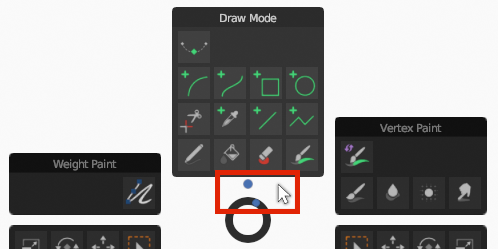
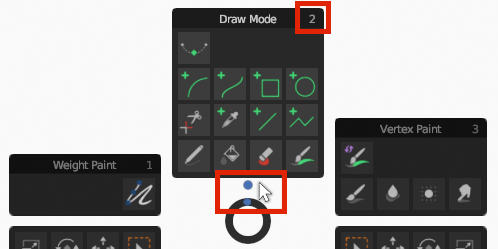
Added: hotkeys 1...6 for mode selection
Fixed: tool wheel could be partially hidden when near the toolbar or n-panel.
Updated: images and How to use.

diff --git a/tool_wheel_draw.py b/tool_wheel_draw.py
@@ -35,7 +35,7 @@ class ModeBox():
     BUTTONS_PER_ROW = 4
     TITLE_HEIGHT = 18
     
-    def __init__(self, mode, box_index, tool_count):
+    def __init__(self, mode, box_index, tool_count, hotkey):
         self.x = 0
         self.y = 0
         self.row_count = math.ceil(tool_count / self.BUTTONS_PER_ROW)
@@ -46,6 +46,7 @@ class ModeBox():
         self.upwards = box_index in {0, 1, 2}
         self.mode = mode
         self.index = box_index
+        self.hotkey = str(hotkey)
         self.tool_buttons = []
         self.title_x = 0
         self.title_y = 0
@@ -96,6 +97,10 @@ class ToolWheel():
     def prepare(self, event, area, context):
         box: ModeBox
         
+        # Init
+        self.active_mode = ''
+        self.active_tool = -1
+        
         # Store area and wheel center
         self.area = area
         self.center_x = event.mouse_region_x
@@ -111,9 +116,9 @@ class ToolWheel():
         
         # Create draw boxes for active modes
         self.boxes = []
-        for mode, box_index in td.active_modes:
+        for mode, box_index, hotkey in td.active_modes:
             tool_count = len(td.tools_per_mode[mode]['active_tools'])
-            box = ModeBox(mode, box_index, tool_count)
+            box = ModeBox(mode, box_index, tool_count, hotkey)
             self.boxes.append(box)
         
         # No active modes (unlikely, but we have to check)
@@ -163,16 +168,25 @@ class ToolWheel():
             max_x = max(max_x, box.x + box.w)
             max_y = max(max_y, box.y)
         
+        # Get width of toolbar and n-panel
+        left_padding = 3
+        right_padding = 3
+        for region in area.regions:
+            if region.alignment == 'LEFT' and region.width > left_padding:
+                left_padding = region.width
+            if region.alignment == 'RIGHT' and region.width > right_padding:
+                right_padding = region.width
+        
         # Make sure bounding box is within area bounds
         dx = 0
         dy = 0
-        if min_x < 2:
-            dx = 2 - min_x
+        if min_x < left_padding:
+            dx = left_padding - min_x
             max_x += dx
-        if max_x > area.width - 2:
-            dx = area.width - 2 - max_x
-        if min_y < 2:
-            dy = 2 - min_y
+        if max_x > area.width - right_padding:
+            dx = area.width - right_padding - max_x
+        if min_y < 3:
+            dy = 3 - min_y
             max_y += dy
         if max_y > area.height - 54:
             dy = area.height - 54 - max_y
@@ -237,11 +251,10 @@ class ToolWheel():
         hint_color[3] = 0.98
         self.box_color = self.get_adjusted_color(box_color, -0.05)
         self.tool_bg_color = self.get_adjusted_color(self.box_color, 0.05)
-        self.box_color_selected = self.get_adjusted_color(box_color, -0.02)
-        self.tool_bg_color_selected = self.get_adjusted_color(box_color, 0.1)
+        self.box_color_selected = self.get_adjusted_color(box_color, -0.12)
+        self.tool_bg_color_selected = self.get_adjusted_color(box_color, 0.08)
         self.text_color = pie_colors.text
-        self.highlight_color_soft = list(pie_colors.inner_sel)
-        self.highlight_color_soft[3] = 0.3
+        self.highlight_color = self.get_adjusted_color(box_color, 0.2)
         
         # Init shaders
         self.shader_icon_bg = gpu.shader.from_builtin('2D_UNIFORM_COLOR')
@@ -350,7 +363,7 @@ class ToolWheel():
             draw_texture_2d(box.texture, (box.x, box.y - box.h), box.w, box.h)
             
             # Lighten box when selected
-            box_is_selected = significant_angle and box.mode == self.active_mode
+            box_is_selected = box.mode == self.active_mode
             if box_is_selected:
                 gpu.state.blend_set('ADDITIVE')
                 verts = ((box.x, box.y), (box.x + box.w, box.y), (box.x, box.y - box.h), (box.x + box.w, box.y - box.h))
@@ -374,7 +387,7 @@ class ToolWheel():
                 gpu.matrix.push()
                 gpu.matrix.translate((button.x + button.BUTTON_IMG_PADDING, button.y - button.BUTTON_IMG_PADDING))
                 if is_active:
-                    color = self.highlight_color_soft
+                    color = self.highlight_color
                 elif box_is_selected:
                     color = self.tool_bg_color_selected
                 else:
@@ -399,7 +412,7 @@ class ToolWheel():
             draw_texture_2d(td.textures['active_dot'], (dx, dy), 8, 8)
         
         # Draw dot on active box
-        if significant_angle and active_box is not None:
+        if active_box is not None:
             box = active_box
             match box.index:
                 case 0:
@@ -443,15 +456,25 @@ class ToolWheel():
             blf.position(0, tx, dy + 6, 0)
             blf.draw(0, hint)
         
-        # Draw centered box title
+        # Draw centered box title and hotkey on the right
         for box in self.boxes:
-            title = td.tools_per_mode[box.mode]['name']
-            tw, _ = blf.dimensions(0, title)
+            # Title
+            text = td.tools_per_mode[box.mode]['name']
+            tw, _ = blf.dimensions(0, text)
             dx = int((box.w - tw) * 0.5) - ModeBox.BOX_PADDING
-            alpha = 0.8 if box.mode == self.active_mode and significant_angle else 0.25
+            alpha = 0.8 if box.mode == self.active_mode else 0.25
             blf.color(0, self.text_color[0], self.text_color[1], self.text_color[2], alpha)
             blf.position(0, box.title_x + dx, box.title_y, 0)
-            blf.draw(0, title)
+            blf.draw(0, text)
+            
+            # Hotkey
+            text = box.hotkey
+            tw, _ = blf.dimensions(0, text)
+            dx = box.x + box.w - ModeBox.BOX_PADDING * 2 - tw
+            alpha = 0.4 if box.mode == self.active_mode else 0.15
+            blf.color(0, self.text_color[0], self.text_color[1], self.text_color[2], alpha)
+            blf.position(0, dx, box.title_y, 0)
+            blf.draw(0, text)
         
         # Reset gpu state
         gpu.state.blend_set('NONE')

diff --git a/operator.py b/operator.py
@@ -22,6 +22,57 @@ class GPENCIL_OT_tool_wheel(Operator):
                 and context.area and context.area.type == 'VIEW_3D')
 
 
+    # Switch to new mode and tool
+    def switch_mode_and_tool(self, context, new_mode, new_tool):
+        # Clean up wheel
+        self.ended(context)
+        
+        # No active mode selected?
+        if new_mode == '':
+            return {'CANCELLED'}
+        
+        # Get selected mode
+        mode = td.tools_per_mode[new_mode]
+        
+        # Switch to mode
+        if mode['mode'] != context.mode:
+            match(new_mode):
+                case 'object':
+                    bpy.ops.object.mode_set(mode='OBJECT')
+                case 'edit':
+                    bpy.ops.gpencil.editmode_toggle()
+                case 'sculpt':
+                    bpy.ops.gpencil.sculptmode_toggle()
+                case 'draw':
+                    bpy.ops.gpencil.paintmode_toggle()
+                case 'weight':
+                    bpy.ops.gpencil.weightmode_toggle()
+                case 'vertex':
+                    bpy.ops.gpencil.vertexmode_toggle()
+        elif new_tool == -1:
+            return {'CANCELLED'}
+        
+        # Switch to tool
+        if new_tool != -1:
+            tool = td.tools_per_mode[new_mode]['tools'][new_tool]['tool']
+            # Handle 'add' tools
+            if tool.startswith('add.'):
+                match tool:
+                    case 'add.empty':
+                        bpy.ops.object.empty_add(radius=0.1)
+                    case 'add.bone':
+                        bpy.ops.object.armature_add(radius=0.4)
+                    case 'add.gp.stroke':
+                        bpy.ops.object.gpencil_add(type='STROKE')
+                    case 'add.gp.empty':
+                        bpy.ops.object.gpencil_add(type='EMPTY')
+            else:
+                # Switch to tool
+                bpy.ops.wm.tool_set_by_id(name=tool)
+        
+        return {'FINISHED'}
+        
+        
     # Check modal events    
     def modal(self, context, event):
         # Abort?
@@ -29,53 +80,13 @@ class GPENCIL_OT_tool_wheel(Operator):
             self.ended(context)
             return {'CANCELLED'}
         
+        # Handle mode hotkeys
+        if event.type in td.mode_of_hotkey:
+            return self.switch_mode_and_tool(context, td.mode_of_hotkey[event.type], -1)
+        
         # Handle left mouse click
         if event.type == 'LEFTMOUSE':
-            self.ended(context)
-            
-            # No active mode selected?
-            if tool_wheel.active_mode == '':
-                return {'CANCELLED'}
-            
-            # Get selected mode
-            mode = td.tools_per_mode[tool_wheel.active_mode]
-            
-            # Switch mode
-            if mode['mode'] != context.mode:
-                match(tool_wheel.active_mode):
-                    case 'object':
-                        bpy.ops.object.mode_set(mode='OBJECT')
-                    case 'edit':
-                        bpy.ops.gpencil.editmode_toggle()
-                    case 'sculpt':
-                        bpy.ops.gpencil.sculptmode_toggle()
-                    case 'draw':
-                        bpy.ops.gpencil.paintmode_toggle()
-                    case 'weight':
-                        bpy.ops.gpencil.weightmode_toggle()
-                    case 'vertex':
-                        bpy.ops.gpencil.vertexmode_toggle()
-            elif tool_wheel.active_tool == -1:
-                return {'CANCELLED'}
-            
-            # Switch to tool
-            if tool_wheel.active_tool != -1:
-                tool = td.tools_per_mode[tool_wheel.active_mode]['tools'][tool_wheel.active_tool]['tool']
-                # Handle 'add' tools
-                if tool.startswith('add.'):
-                    match tool:
-                        case 'add.empty':
-                            bpy.ops.object.empty_add(radius=0.1)
-                        case 'add.bone':
-                            bpy.ops.object.armature_add(radius=0.4)
-                        case 'add.gp.stroke':
-                            bpy.ops.object.gpencil_add(type='STROKE')
-                        case 'add.gp.empty':
-                            bpy.ops.object.gpencil_add(type='EMPTY')
-                else:
-                    bpy.ops.wm.tool_set_by_id(name=tool)
-            
-            return {'FINISHED'}
+            return self.switch_mode_and_tool(context, tool_wheel.active_mode, tool_wheel.active_tool)
         
         # Redraw area on mouse move
         if event.type == 'MOUSEMOVE':

diff --git a/tool_data.py b/tool_data.py
@@ -26,6 +26,8 @@ class ToolData():
         self.textures = {}
         self.modes = ['weight', 'draw', 'vertex', 'edit', 'sculpt', 'object']
         self.modes_in_prefs = ['draw', 'edit', 'sculpt', 'object', 'vertex', 'weight']
+        self.mode_hotkeys = ['ONE', 'TWO', 'THREE', 'FOUR', 'FIVE', 'SIX']
+        self.mode_of_hotkey = {}
         self.box_by_angle = [2, 1, 1, 0, 5, 4, 4, 3]
         self.mode_order = [0, 1, 2, 3, 4, 5]
         # Which boxes are used for 1/2/3/4/5/6 active modes?
@@ -144,34 +146,41 @@ class ToolData():
         preferences.get_tool_preferences()
         
         # Iterate all modes, in user preferenced order
+        self.mode_of_hotkey = {}
         active_modes = []
         box_i = 0
         for mode_i in self.mode_order:
-            # Collect enabled tools
+            # Get mode
             mode = self.modes[mode_i]
+            
+            # Collect enabled tools
             mode_obj = self.tools_per_mode[mode]
             active_tools = []
             for tool_i, tool in enumerate(mode_obj['tools']):
                 if tool['enabled']:
                     active_tools.append(tool_i)
+            mode_obj['active_tools'] = active_tools
             
             # Add to active modes when one or more tools are enabled
-            mode_obj['active_tools'] = active_tools
             if len(active_tools) > 0:
                 active_modes.append((mode, box_i))
+                
+                # Assign hotkey to mode
+                self.mode_of_hotkey[self.mode_hotkeys[box_i]] = mode
+                
                 box_i += 1
-
+        
         # Get corresponding box layout for number of active modes
         # and set box index belonging to mode
         self.active_modes = []
         active_box_layout = self.box_layouts[len(active_modes)]
         for mode, box_i in active_modes:
-            self.active_modes.append((mode, active_box_layout[box_i]))
+            self.active_modes.append((mode, active_box_layout[box_i], box_i + 1))
 
         # Convert active modes to labels for Preference panel
         box_to_label = [(1, 0), (0, 1), (1, 2), (3, 2), (4, 1), (3, 0)]
         labels = [['', '', ''], ['', '', ''], ['', '', ''], ['', '', ''], ['', '', '']]
-        for mode, box_i in self.active_modes:
+        for mode, box_i, _ in self.active_modes:
             row, col = box_to_label[box_i]
             labels[row][col] = self.tools_per_mode[mode]['name_short']
         labels[2][1] = '○'

diff --git a/readme.md b/readme.md
@@ -9,9 +9,11 @@ Using Grease Pencil and switching a lot between modes and tools? Then GP Tool Wh
 ## How to use the wheel
 By default you can invoke the tool wheel with the pie menu shortcut: `Tab` or `Ctrl`-`Tab`. You can change this shortcut easily, by [customizing your wheel](#customize-your-wheel).
 
-Selecting a tool doesn't need an explanation: click on an icon and you are good to go.
+The wheel only appears when there is an active Grease Pencil object.
 
-> **Neat detail:** you don't *have* to select a tool. When clicking *outside* the active mode panel (marked with the colored dot), you just switch modes. Like you would with the default pie menu.
+Selecting a tool needs no explanation: click on an icon and you are good to go.
+
+> **Switching mode only:** Tap 1...6 on your keyboard. Or click near the colored dot in the center space of the wheel.
 > 
 > ![Selecting mode only](docs/images/gp_tool_wheel_selecting_mode.png)
 
@@ -40,7 +42,7 @@ It's recommended to change the keyboard shortcut when you don't include all the 
 GP Tool Wheel is suited for Blender 3.0 and higher.
 
 Installation of the add-on is done in the usual way:
-- Download [the latest release](https://github.com/SietseB/GP-Tool-Wheel/releases/tag/v1.0.0). (Make sure it is a zip file, not automatically unzipped.)
+- Download [the latest release](https://github.com/SietseB/GP-Tool-Wheel/releases). (Make sure it is a zip file, not automatically unzipped.)
 - In Blender, go to `Edit` > `Preferences...` > `Add-ons`. Click on `Install...` and select the zip file.
 - When the stars are in your favour, the add-on appears. Activate it.
 - And since you are here: click on the add-on arrow and take a look at the preferences straight away.
@@ -51,5 +53,8 @@ Installation of the add-on is done in the usual way:
 
 
 ## Changelog
+- v1.0.1 – 2022-11-11
+  - Number keys 1..6 added for switching mode only (like in the default pie menu)
+  - Fixed: tool wheel could be partially hidden when near the toolbar or n-panel
 - v1.0.0 – 2022-11-10
   - Initial release
